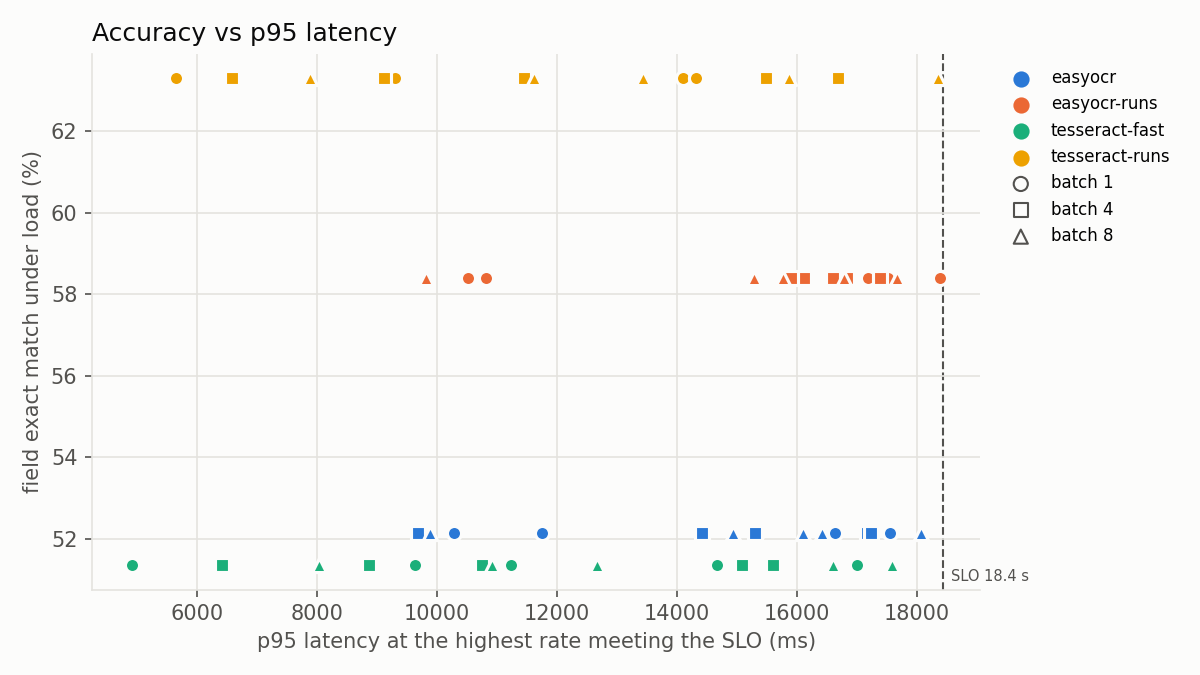
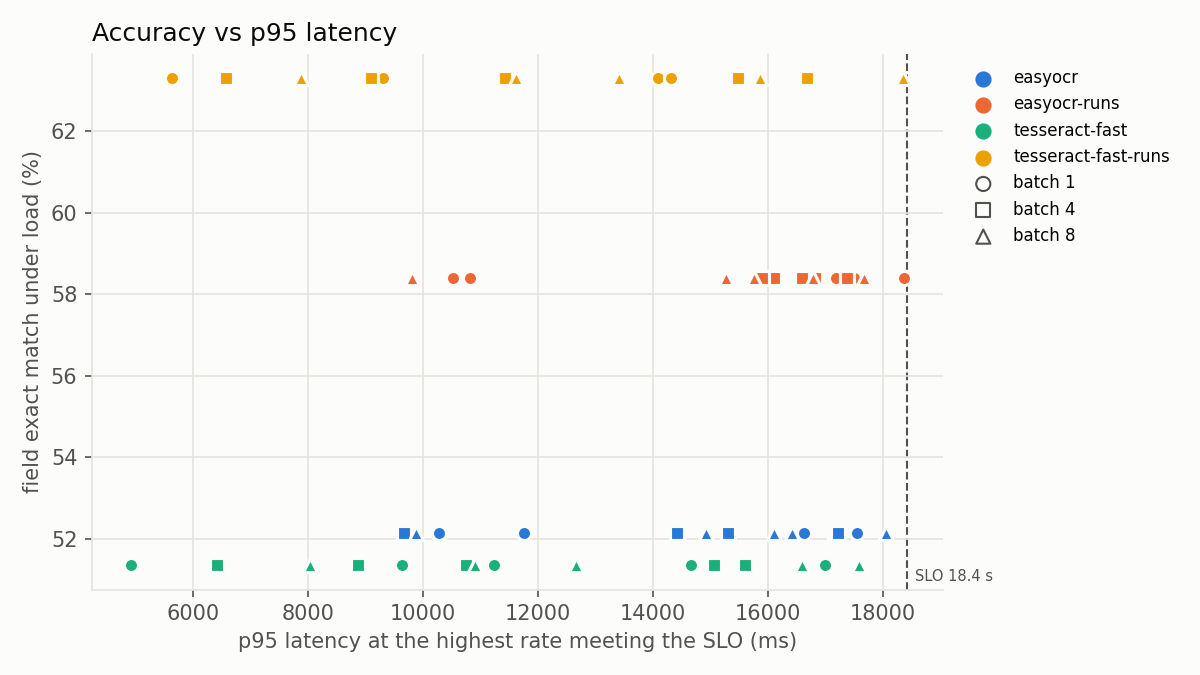
fix naming mistake, tesseract runs is actually tesseract fast runs

diff --git a/analysis/t6_tables.py b/analysis/t6_tables.py
@@ -14,6 +14,9 @@ from icp.assertions import normalize
 SUMMARY = "results/T6_profiling_raw/summary.jsonl"
 OUT_TABLE = "results/T6_profiling_tables/t6_table.csv"
 OUT_BREAKDOWN = "results/T6_profiling_tables/t6_latency_breakdown.csv"
+# On the VM the system chi_sim.traineddata is the 2.5 MB tessdata_fast model, so the
+# sweep points served as "tesseract-runs" ran tesseract-fast-runs.
+VM_VARIANT_NAMES = {"tesseract-runs": "tesseract-fast-runs"}
 SLO_MS = json.load(open("results/T5_sla_calibration/sla.json"))["SLO_ms"]
 
 INK, MUTED, GRID, SURFACE = "#0b0b0b", "#52514e", "#e4e3df", "#fcfcfb"
@@ -91,7 +94,9 @@ def build_table():
             "inference_ms": round(float(inference.mean()), 1),
             "network_ms": round(float((latency - queue - inference).mean()), 1),
         })
-    return pd.DataFrame(table).sort_values(["variant", "cost", "replicas", "batch"], ignore_index=True)
+    table = pd.DataFrame(table)
+    table["variant"] = table["variant"].replace(VM_VARIANT_NAMES)
+    return table.sort_values(["variant", "cost", "replicas", "batch"], ignore_index=True)
 
 
 def style(ax, title, xlabel):

diff --git a/analysis/t7_end_to_end.py b/analysis/t7_end_to_end.py
@@ -13,7 +13,7 @@ T6_TABLE = "results/T6_profiling_tables/t6_table.csv"
 SLA_DIR = "results/T5_sla_calibration"
 OUT_TABLE = "results/T7_end_to_end/t7_table.csv"
 OUT_PLOT = "plots/pareto.png"
-T6_VARIANT_FOR = {"tesseract-fast-runs": "tesseract-runs", "tesseract-runs": None}
+T6_VARIANT_FOR = {"tesseract-runs": None}  # the 44 MB model was never profiled on the VM
 
 INK, MUTED, GRID, SURFACE = "#0b0b0b", "#52514e", "#e4e3df", "#fcfcfb"
 MEETS, MISSES = "#2a78d6", "#a8a7a2"
